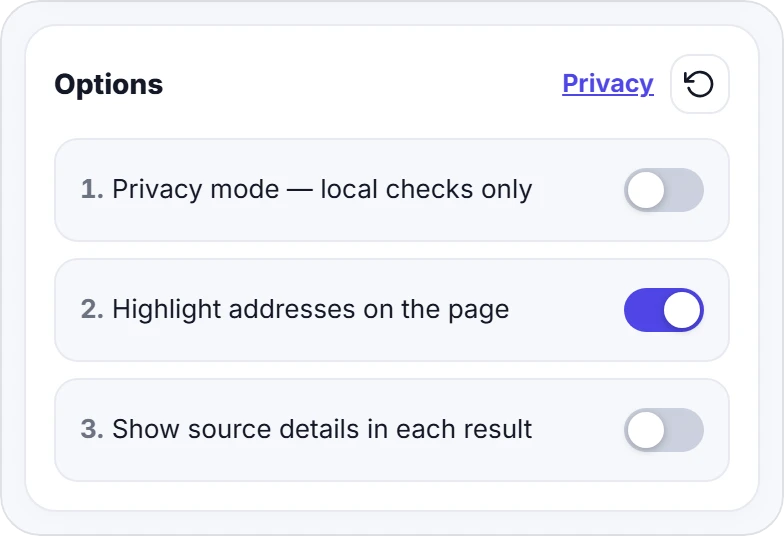
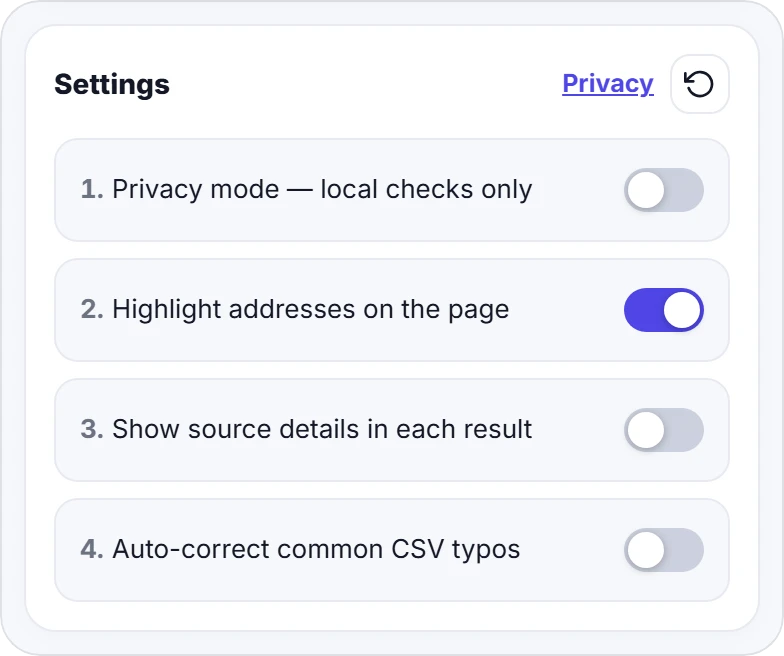
feat: add opt-in CSV auto-correction and refine the file picker
Auto-fix known domain typos on CSV import while preserving the corrected status through scoring, even in privacy mode. Rebuild the file row as a ticket stub with a clear ready state, and expose the new toggle under Settings across all eight locales.

diff --git a/ui.css b/ui.css
@@ -253,34 +253,86 @@ a.ghost-btn { text-decoration: none; }
 }
 .link-btn:hover { text-decoration: underline; }
 
+/* تذكرة ملف: كعب ثابت يفصل نوع الملف عن بياناته بخط تثقيب، بدل كرت الحقل المعتاد. */
 .file-row {
-  display: flex; align-items: center; gap: 10px;
-  border: 1px dashed var(--border); border-radius: 12px;
-  background: var(--bg); padding: 10px;
+  display: grid;
+  grid-template-columns: 56px minmax(0, 1fr) auto;
+  align-items: stretch; gap: 10px;
+  padding-inline: 0 10px;
+  border: 1px solid var(--border); border-radius: 14px;
+  background: var(--bg);
+  transition: border-color 0.18s ease, background 0.18s ease, box-shadow 0.18s ease;
 }
-.file-row.has-file { border-style: solid; border-color: var(--accent); background: var(--accent-soft); }
-.file-icon {
-  width: 36px; height: 36px; flex-shrink: 0;
-  display: grid; place-items: center;
-  border: 1px solid var(--border); border-radius: 10px;
-  background: var(--card); color: var(--accent);
+.file-row:hover { border-color: var(--accent); }
+.file-row.has-file {
+  border-color: var(--accent);
+  background: var(--accent-soft); box-shadow: var(--card-shadow);
 }
-.file-info { flex: 1; min-width: 0; display: flex; flex-direction: column; gap: 2px; }
+
+/* الدائرتان على الخط الفاصل تحوّلان الحد المتقطع إلى أثر ورق مثقوب. */
+.file-stub {
+  position: relative; min-height: 68px;
+  display: flex; flex-direction: column; align-items: center; justify-content: center; gap: 4px;
+  border-start-start-radius: 13px; border-end-start-radius: 13px;
+  border-inline-end: 1px dashed var(--border);
+  background: var(--primary-soft); color: var(--accent);
+}
+.file-stub::before, .file-stub::after {
+  content: ""; position: absolute; inset-inline-end: -9px;
+  width: 16px; height: 16px; border-radius: 50%;
+  background: var(--card);
+}
+.file-stub::before { inset-block-start: -9px; }
+.file-stub::after { inset-block-end: -9px; }
+.file-stub-type {
+  font-family: var(--mono); font-size: 9px; font-weight: 700;
+  letter-spacing: 0.14em; line-height: 1;
+}
+/* تبديل الأيقونة داخل الكعب يُبقي حالة الجاهزية داخل الحد بدل شارة طافية خارجه. */
+.stub-icon--ready { display: none; }
+.file-row.has-file .stub-icon--idle { display: none; }
+.file-row.has-file .stub-icon--ready {
+  display: block;
+  animation: file-ready-pop 0.2s ease-out both;
+}
+@keyframes file-ready-pop {
+  from { opacity: 0; transform: scale(0.7); }
+  to { opacity: 1; transform: scale(1); }
+}
+.file-body {
+  min-width: 0; align-self: center;
+  display: flex; flex-direction: column; gap: 4px; padding-block: 10px;
+}
 .file-name {
-  font-family: var(--mono); font-size: 12px; font-weight: 600;
+  font-family: var(--mono); font-size: 12.5px; font-weight: 600;
   color: var(--muted); direction: ltr; text-align: left;
   white-space: nowrap; overflow: hidden; text-overflow: ellipsis;
+  transition: color 0.18s ease;
 }
-.file-row.has-file .file-name { color: var(--text); }
-.file-caption { font-size: 11px; color: var(--muted); }
+.file-row.has-file .file-name { color: var(--text); font-weight: 700; }
+.file-caption { font-size: 11px; line-height: 1.5; color: var(--muted); text-wrap: balance; }
+.file-row.has-file .file-caption::before {
+  content: ""; display: inline-block; width: 5px; height: 5px; border-radius: 50%;
+  background: var(--success); margin-inline-end: 6px; vertical-align: middle;
+}
 .file-pick {
-  display: inline-flex; align-items: center; gap: 6px; flex-shrink: 0;
-  height: 34px; padding: 0 10px;
+  align-self: center;
+  display: inline-flex; align-items: center; justify-content: center; gap: 6px; flex-shrink: 0;
+  height: 36px; padding: 0 10px;
   border: 1px solid var(--border); border-radius: 10px;
   background: var(--card); color: var(--text);
-  font-family: inherit; font-size: 12px; font-weight: 700; cursor: pointer;
+  font-family: inherit; font-size: 11.5px; font-weight: 700; cursor: pointer;
+  transition: border-color 0.18s ease, background 0.18s ease, color 0.18s ease,
+    transform 0.18s ease, box-shadow 0.18s ease;
 }
-.file-pick:hover { border-color: var(--accent); color: var(--accent); }
+.file-pick svg { color: var(--accent); }
+.file-row.has-file .file-pick { border-color: var(--accent); color: var(--accent); }
+.file-pick:hover {
+  border-color: var(--accent); background: var(--primary-soft);
+  color: var(--accent); box-shadow: var(--card-shadow);
+}
+.file-pick:active { transform: scale(0.97); }
+.file-pick:focus-visible { outline: 2px solid var(--accent); outline-offset: 2px; }
 
 /* مكوّن select مخصص (مشترك مع CopyTabs). */
 .cselect { position: relative; flex: 0 0 auto; width: 186px; max-width: 186px; min-width: 0; }

diff --git a/popup.html b/popup.html
@@ -107,9 +107,13 @@
 
       <div class="pane" data-pane="file" hidden>
         <div id="fileRow" class="file-row">
-          <span class="file-icon" aria-hidden="true"><svg viewBox="0 0 24 24" width="16" height="16" fill="none" stroke="currentColor" stroke-width="2" stroke-linecap="round" stroke-linejoin="round"><path d="M14 2H6a2 2 0 0 0-2 2v16a2 2 0 0 0 2 2h12a2 2 0 0 0 2-2V8z"/><polyline points="14 2 14 8 20 8"/></svg></span>
-          <span class="file-info">
-            <span id="fileName" class="file-name">No file selected</span>
+          <span class="file-stub" aria-hidden="true">
+            <svg class="stub-icon stub-icon--idle" viewBox="0 0 24 24" width="22" height="22" fill="none" stroke="currentColor" stroke-width="1.6" stroke-linecap="round" stroke-linejoin="round"><path d="M14 2H6a2 2 0 0 0-2 2v16a2 2 0 0 0 2 2h12a2 2 0 0 0 2-2V8z"/><polyline points="14 2 14 8 20 8"/><path d="M8 13h8M8 17h5"/></svg>
+            <svg class="stub-icon stub-icon--ready" viewBox="0 0 24 24" width="22" height="22" fill="none" stroke="currentColor" stroke-width="1.6" stroke-linecap="round" stroke-linejoin="round"><path d="M14 2H6a2 2 0 0 0-2 2v16a2 2 0 0 0 2 2h12a2 2 0 0 0 2-2V8z"/><polyline points="14 2 14 8 20 8"/><path d="m8.5 15 2.2 2.2 4.8-4.8"/></svg>
+            <span class="file-stub-type">CSV</span>
+          </span>
+          <span class="file-body">
+            <span id="fileName" class="file-name" dir="ltr">No file selected</span>
             <span class="file-caption" data-i18n="fileHint">Only the first column is read</span>
           </span>
           <button id="pickFile" class="file-pick" type="button" data-i18n-attr="aria-label:pickFile;title:pickFile">
@@ -171,9 +175,9 @@
       </p>
     </section>
 
-    <section class="card" aria-labelledby="optionsTitle">
+    <section class="card" aria-labelledby="settingsTitle">
       <div class="card-head">
-        <h2 id="optionsTitle" data-i18n="optionsTitle">Options</h2>
+        <h2 id="settingsTitle" data-i18n="settingsTitle">Settings</h2>
         <div class="head-actions">
           <a class="link-btn" href="privacy.html" target="_blank" rel="noopener" data-i18n="privacyLink">Privacy</a>
           <button id="resetOptions" class="icon-btn sm" type="button" data-i18n-attr="aria-label:resetAria;title:resetAria">
@@ -195,6 +199,11 @@
         <label class="opt switch-opt">
           <span class="opt-text"><span class="opt-num" aria-hidden="true">3.</span><span data-i18n="showSourcesOption">Show source details in each result</span></span>
           <input type="checkbox" id="showSources" />
+          <span class="switch" aria-hidden="true"></span>
+        </label>
+        <label class="opt switch-opt">
+          <span class="opt-text"><span class="opt-num" aria-hidden="true">4.</span><span data-i18n="autoFixOption">Auto-correct common CSV typos</span></span>
+          <input type="checkbox" id="autoFix" />
           <span class="switch" aria-hidden="true"></span>
         </label>
       </div>

diff --git a/sidepanel.html b/sidepanel.html
@@ -104,9 +104,13 @@
 
       <div class="pane" data-pane="file" hidden>
         <div id="fileRow" class="file-row">
-          <span class="file-icon" aria-hidden="true"><svg viewBox="0 0 24 24" width="16" height="16" fill="none" stroke="currentColor" stroke-width="2" stroke-linecap="round" stroke-linejoin="round"><path d="M14 2H6a2 2 0 0 0-2 2v16a2 2 0 0 0 2 2h12a2 2 0 0 0 2-2V8z"/><polyline points="14 2 14 8 20 8"/></svg></span>
-          <span class="file-info">
-            <span id="fileName" class="file-name">No file selected</span>
+          <span class="file-stub" aria-hidden="true">
+            <svg class="stub-icon stub-icon--idle" viewBox="0 0 24 24" width="22" height="22" fill="none" stroke="currentColor" stroke-width="1.6" stroke-linecap="round" stroke-linejoin="round"><path d="M14 2H6a2 2 0 0 0-2 2v16a2 2 0 0 0 2 2h12a2 2 0 0 0 2-2V8z"/><polyline points="14 2 14 8 20 8"/><path d="M8 13h8M8 17h5"/></svg>
+            <svg class="stub-icon stub-icon--ready" viewBox="0 0 24 24" width="22" height="22" fill="none" stroke="currentColor" stroke-width="1.6" stroke-linecap="round" stroke-linejoin="round"><path d="M14 2H6a2 2 0 0 0-2 2v16a2 2 0 0 0 2 2h12a2 2 0 0 0 2-2V8z"/><polyline points="14 2 14 8 20 8"/><path d="m8.5 15 2.2 2.2 4.8-4.8"/></svg>
+            <span class="file-stub-type">CSV</span>
+          </span>
+          <span class="file-body">
+            <span id="fileName" class="file-name" dir="ltr">No file selected</span>
             <span class="file-caption" data-i18n="fileHint">Only the first column is read</span>
           </span>
           <button id="pickFile" class="file-pick" type="button" data-i18n-attr="aria-label:pickFile;title:pickFile">
@@ -168,9 +172,9 @@
       </p>
     </section>
 
-    <section class="card" aria-labelledby="optionsTitle">
+    <section class="card" aria-labelledby="settingsTitle">
       <div class="card-head">
-        <h2 id="optionsTitle" data-i18n="optionsTitle">Options</h2>
+        <h2 id="settingsTitle" data-i18n="settingsTitle">Settings</h2>
         <div class="head-actions">
           <a class="link-btn" href="privacy.html" target="_blank" rel="noopener" data-i18n="privacyLink">Privacy</a>
           <button id="resetOptions" class="icon-btn sm" type="button" data-i18n-attr="aria-label:resetAria;title:resetAria">
@@ -192,6 +196,11 @@
         <label class="opt switch-opt">
           <span class="opt-text"><span class="opt-num" aria-hidden="true">3.</span><span data-i18n="showSourcesOption">Show source details in each result</span></span>
           <input type="checkbox" id="showSources" />
+          <span class="switch" aria-hidden="true"></span>
+        </label>
+        <label class="opt switch-opt">
+          <span class="opt-text"><span class="opt-num" aria-hidden="true">4.</span><span data-i18n="autoFixOption">Auto-correct common CSV typos</span></span>
+          <input type="checkbox" id="autoFix" />
           <span class="switch" aria-hidden="true"></span>
         </label>
       </div>

diff --git a/ui.js b/ui.js
@@ -6,6 +6,7 @@
  * Addresses are untrusted input and are written through textContent only.
  */
 
+import { autoFixEmails } from './lib/autofix.js';
 import { csvEmails } from './lib/csv.js';
 import { DEFAULT_SETTINGS, SETTINGS_KEY, loadSettings, saveSettings } from './lib/settings.js';
 import { applyTranslations, loadLocale, matchLocale, t } from './i18n.js';
@@ -54,6 +55,7 @@ const els = {
   privacyMode: $('privacyMode'),
   highlightPage: $('highlightPage'),
   showSources: $('showSources'),
+  autoFix: $('autoFix'),
   resetOptions: $('resetOptions')
 };
 
@@ -201,13 +203,14 @@ function duplicatesNote(duplicates) {
   return duplicates.length ? t('statusDuplicateNote', { n: duplicates.length }) : '';
 }
 
-async function verifyList(emails, note = '', token = scanToken) {
+async function verifyList(emails, note = '', token = scanToken, correctedFrom = []) {
   showSkeleton();
   setStatus(t('statusVerifying', { n: emails.length }), 'busy');
   try {
     const batch = await verifyBatch(emails, {
       privacyMode: settings.privacy,
-      concurrency: 4
+      concurrency: 4,
+      correctedFrom
     });
     if (token !== scanToken) return;
     results = batch;
@@ -291,13 +294,26 @@ async function checkFile(token) {
   }
 
   const parsed = parseEmailLines(csvEmails(await file.text()).join('\n'));
-  const list = fromParsed(parsed);
+  let list = fromParsed(parsed);
+  let note = duplicatesNote(parsed.duplicates);
+  let correctedFrom = [];
+
+  if (settings.autoFix) {
+    const fixed = autoFixEmails(list);
+    list = fixed.emails;
+    correctedFrom = fixed.correctedFrom;
+    if (fixed.corrections) {
+      const applied = t('statusAutoFixed', { n: fixed.corrections });
+      note = note ? `${note} ${applied}` : applied;
+    }
+  }
+
   if (!list.length) {
     setStatus(t('statusFileEmpty'), 'error');
     return;
   }
 
-  await verifyList(list, duplicatesNote(parsed.duplicates), token);
+  await verifyList(list, note, token, correctedFrom);
 }
 
 async function applyFix(result) {
@@ -447,6 +463,7 @@ function applySettingsToUI() {
   els.privacyMode.checked = settings.privacy;
   els.highlightPage.checked = settings.highlight;
   els.showSources.checked = settings.showSources;
+  els.autoFix.checked = settings.autoFix;
 
   syncCustomSelects();
   showPane(settings.mode);
@@ -539,6 +556,11 @@ function bindEvents() {
     settings.showSources = els.showSources.checked;
     saveSettings(settings);
     render();
+  });
+
+  els.autoFix.addEventListener('change', () => {
+    settings.autoFix = els.autoFix.checked;
+    saveSettings(settings);
   });
 
   els.resetOptions.addEventListener('click', async () => {

diff --git a/lib/scorer.js b/lib/scorer.js
@@ -28,7 +28,7 @@ const VALID_VERDICTS = new Set(['valid', 'invalid', 'risky', 'unknown']);
  * @param {object} localSignals output of classifyLocal()
  * @returns {{score:number, agreement:number, level:string, status:string, basis:string, caveat:string, votes:object, conflicts:string[], sourceCount:number}}
  */
-export function computeConfidence(results, localSignals = {}) {
+export function computeConfidence(results, localSignals = {}, context = {}) {
   const entries = (Array.isArray(results) ? results : []).filter(Boolean);
   const votes = { valid: 0, invalid: 0, risky: 0, unknown: 0 };
   const conflicts = [];
@@ -50,20 +50,24 @@ export function computeConfidence(results, localSignals = {}) {
   const externalCount = entries.filter((entry) => entry.source !== 'local').length;
   const basis = externalCount === 0 ? 'local-only' : 'multi-source';
 
+  // An address repaired before verification carries its origin in the context,
+  // not in local.suggestion — that field would offer a button to undo the fix.
+  const wasCorrected = Boolean(localSignals.suggestion || context.correctedFrom);
   if (hasConflict) conflicts.push('sources_disagree');
-  if (localSignals.suggestion) conflicts.push('domain_corrected');
+  if (wasCorrected) conflicts.push('domain_corrected');
 
   let status;
   if (localSignals.valid === false) {
     status = 'invalid';
+  } else if (hasConflict) {
+    status = 'review';
+  } else if (wasCorrected) {
+    // A known repair is reportable even when privacy mode returns no votes.
+    status = 'corrected';
   } else if (decisive === 0) {
     status = 'unknown';
   } else if (votes.invalid > votes.valid && votes.invalid >= 3) {
     status = 'invalid';
-  } else if (hasConflict) {
-    status = 'review';
-  } else if (localSignals.suggestion) {
-    status = 'corrected';
   } else if (localSignals.disposable || localSignals.role || votes.risky > 0) {
     status = 'suspicious';
   } else if (votes.valid >= 3 && hasMx) {

diff --git a/lib/orchestrator.js b/lib/orchestrator.js
@@ -50,8 +50,12 @@ async function checkDomain(domain) {
 /** Verify one address; remote checks run unless privacy mode disables them. */
 export async function verifyEmail(email, options = {}) {
   const local = classifyLocal(email);
+  const correctedFrom = options.correctedFrom ?? null;
   if (!local.valid) {
-    return { email, local, sources: [], confidence: computeConfidence([], local) };
+    return {
+      email, local, sources: [], correctedFrom,
+      confidence: computeConfidence([], local, { correctedFrom })
+    };
   }
 
   const remoteEnabled = options.privacyMode !== true;
@@ -74,7 +78,10 @@ export async function verifyEmail(email, options = {}) {
     ...addressResults
   ];
 
-  return { email, local, sources, confidence: computeConfidence(sources, local) };
+  return {
+    email, local, sources, correctedFrom,
+    confidence: computeConfidence(sources, local, { correctedFrom })
+  };
 }
 
 /** Bounded concurrency keeps provider load low; results preserve input order. */
@@ -82,12 +89,16 @@ export async function verifyBatch(emails, options = {}) {
   const list = Array.isArray(emails) ? emails : [];
   const limit = Math.max(1, Math.min(options.concurrency ?? 4, list.length || 1));
   const results = new Array(list.length);
+  const corrections = Array.isArray(options.correctedFrom) ? options.correctedFrom : [];
   let cursor = 0;
 
   async function worker() {
     while (cursor < list.length) {
       const index = cursor++;
-      results[index] = await verifyEmail(list[index], options);
+      results[index] = await verifyEmail(list[index], {
+        privacyMode: options.privacyMode,
+        correctedFrom: corrections[index] ?? null
+      });
     }
   }
 

diff --git a/lib/autofix.js b/lib/autofix.js
@@ -1,0 +1,36 @@
+/**
+ * Automatic corrections applied to CSV uploads only.
+ *
+ * Only domains listed in the local typo dictionary are rewritten. Provider
+ * alias forms belong to the real mailbox, so they are never changed silently.
+ */
+
+import { normalizeEmail, suggestCorrection } from './validation.js';
+
+export function autoFixEmails(emails) {
+  const list = Array.isArray(emails) ? emails : [];
+  const seen = new Set();
+  const fixed = [];
+  const correctedFrom = [];
+  let corrections = 0;
+
+  for (const email of list) {
+    const suggestion = suggestCorrection(email);
+    const candidate = suggestion ?? email;
+    const parsed = normalizeEmail(candidate);
+    const key = parsed
+      ? parsed.normalized.toLowerCase()
+      : String(candidate).trim().toLowerCase();
+
+    // A correction can collapse two rows into one address; keeping the first
+    // prevents the result list from showing a duplicate the CSV never had.
+    if (seen.has(key)) continue;
+    seen.add(key);
+
+    fixed.push(candidate);
+    correctedFrom.push(suggestion ? email : null);
+    if (suggestion) corrections += 1;
+  }
+
+  return { emails: fixed, correctedFrom, corrections };
+}

diff --git a/lib/settings.js b/lib/settings.js
@@ -16,6 +16,7 @@ export const DEFAULT_SETTINGS = Object.freeze({
   privacy: false,
   highlight: true,
   showSources: false,
+  autoFix: false,
   filter: 'all'
 });
 
